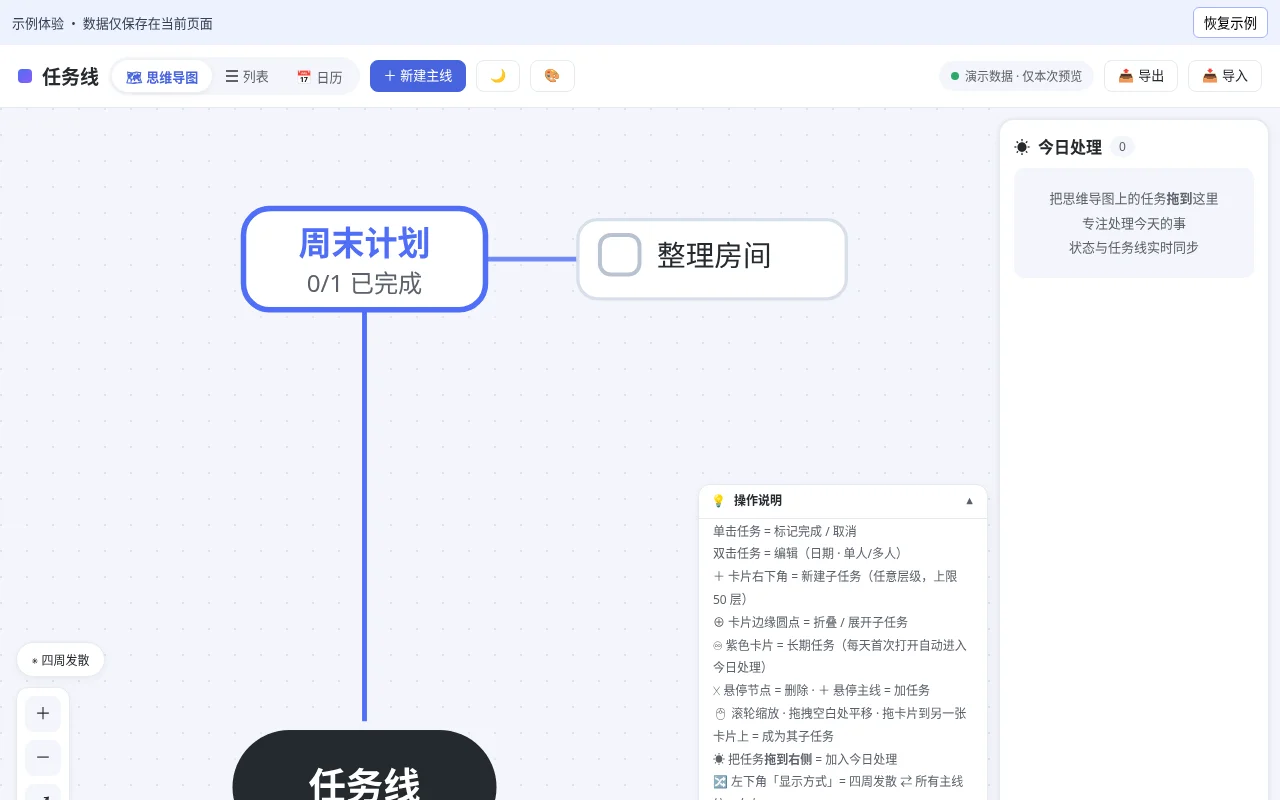
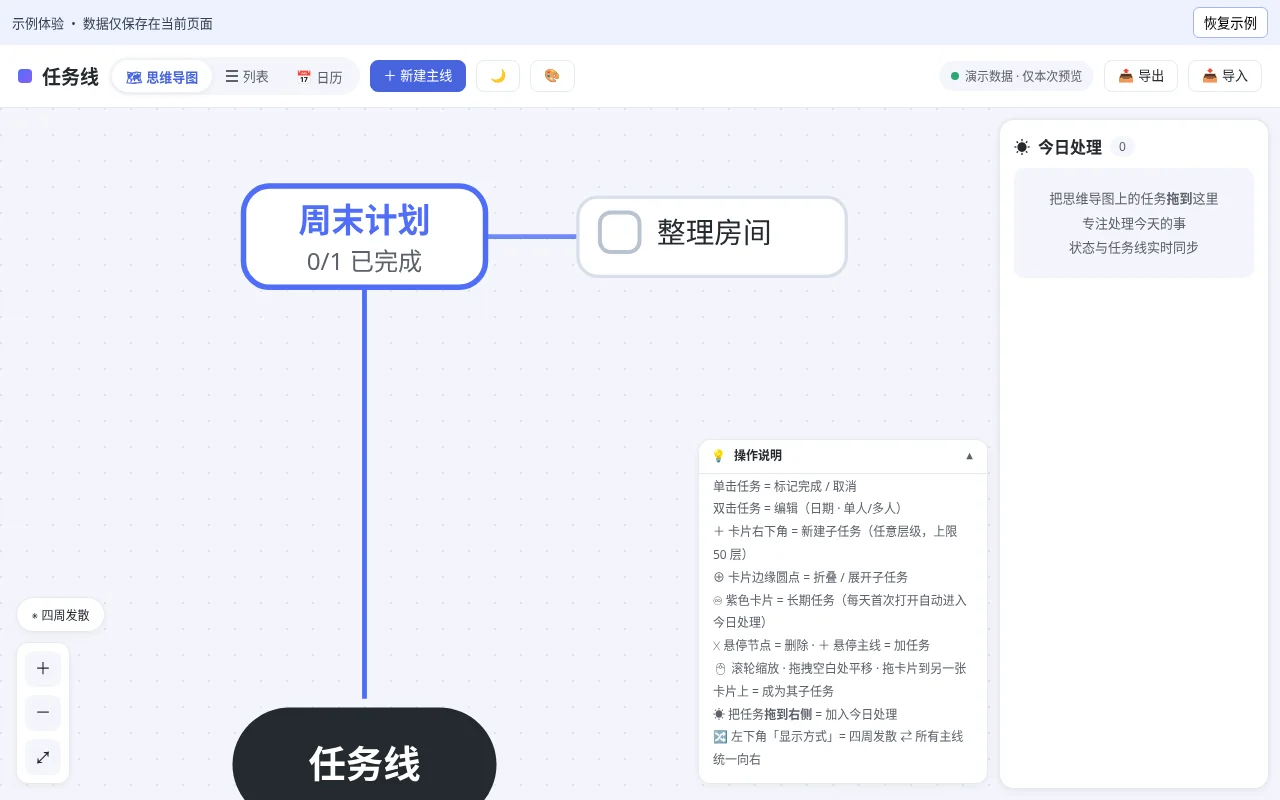
Add task planning template

diff --git a/123195a9aac18e698bc43458/showcase/preview.html b/123195a9aac18e698bc43458/showcase/preview.html
@@ -1069,7 +1069,7 @@
 
 
 #btnAuth{display:none!important}
-#previewBar{display:flex;align-items:center;justify-content:space-between;gap:8px;padding:7px 12px;background:#eef2ff;color:#334155;font:13px sans-serif}#previewReset{border:1px solid #a5b4fc;border-radius:6px;background:white;padding:5px 10px;cursor:pointer}
+body{display:flex;flex-direction:column}#app{flex:1;min-height:0}.app{height:100%}#previewBar{flex:none;display:flex;align-items:center;justify-content:space-between;gap:8px;padding:7px 12px;background:#eef2ff;color:#334155;font:13px sans-serif}#previewReset{border:1px solid #a5b4fc;border-radius:6px;background:white;padding:5px 10px;cursor:pointer}
 </style></head><body><div id="previewBar"><span>示例体验 · 数据仅保存在当前页面</span><button id="previewReset" type="button">恢复示例</button></div><div id="app"></div><script>const previewStorage={data:{},getItem(k){return this.data[k]||null},setItem(k,v){this.data[k]=String(v)},removeItem(k){delete this.data[k]}};
 document.querySelector('#app').innerHTML = "\n<div class=\"app\">\n\n  <header>\n    <!-- 手机上的主线抽屉开关：桌面隐藏（侧栏本来就常驻） -->\n    <button class=\"tool\" id=\"btnDrawer\" title=\"主线列表\" aria-label=\"打开主线列表\" aria-expanded=\"false\">☰</button>\n    <div class=\"logo\"><span class=\"dot\"></span>任务线</div>\n    <div class=\"view-switch\">\n      <button id=\"btnMapView\" class=\"on\">🗺 思维导图</button>\n      <button id=\"btnListView\">☰ 列表</button>\n      <button id=\"btnCalView\">📅 日历</button>\n    </div>\n    <button class=\"tool primary\" id=\"btnAddLineTop\">＋ 新建主线</button>\n    <button class=\"tool\" id=\"btnAuth\">☁ 登录同步</button>\n    <button class=\"tool\" id=\"btnTheme\" title=\"切换深色 / 浅色模式\">🌙</button>\n    <button class=\"tool\" id=\"btnScheme\" title=\"选择配色方案\" aria-haspopup=\"true\" aria-expanded=\"false\">🎨</button>\n    <div class=\"sync-badge\">\n      <span class=\"led\" id=\"syncLed\"></span><span id=\"syncText\">演示数据 · 仅本次预览</span>\n    </div>\n    <!-- 配色选择面板 -->\n    <div class=\"scheme-pop\" id=\"schemePop\" hidden>\n      <div class=\"scheme-pop-head\">配色方案</div>\n      <div class=\"scheme-list\" id=\"schemeList\"></div>\n      <div class=\"scheme-pop-foot\">配色与深浅模式可自由组合，共 10 种效果</div>\n    </div>\n    <button class=\"tool\" id=\"btnExport\">📤 导出</button>\n    <button class=\"tool\" id=\"btnImport\">📥 导入</button>\n    <!-- 手机上的「⋯ 更多」：把导出/导入收进来，顶栏少一行 -->\n    <button class=\"tool\" id=\"btnMore\" title=\"更多\" aria-haspopup=\"true\" aria-expanded=\"false\">⋯</button>\n    <div class=\"tool-more-pop\" id=\"morePop\" hidden>\n      <button id=\"btnMoreTheme\"><i>🌙</i>深色 / 浅色</button>\n      <button id=\"btnMoreScheme\"><i>🎨</i>配色方案</button>\n      <button id=\"btnMoreExport\"><i>📤</i>导出数据</button>\n      <button id=\"btnMoreImport\"><i>📥</i>导入数据</button>\n    </div>\n  </header>\n  <!-- 手机侧栏抽屉的遮罩：点空白处收起 -->\n  <div id=\"drawerMask\"></div>\n\n  <!-- ============ 思维导图视图（默认） ============ -->\n  <div id=\"mapView\">\n    <svg id=\"mapSvg\">\n      <g id=\"world\"></g>\n    </svg>\n    <!-- 今日处理：固定右侧面板（拖动任务进来，状态与任务线同步） -->\n    <div id=\"todayPanel\">\n      <div class=\"tp-head\"><span>☀</span><span class=\"tp-label\">今日处理</span> <span class=\"tp-count\" id=\"tpCount\">0</span></div>\n      <div class=\"tp-hint\" id=\"tpHint\">把思维导图上的任务<b>拖到</b>这里<br>专注处理今天的事<br>状态与任务线实时同步</div>\n      <div class=\"tp-list\" id=\"tpList\"></div>\n      <button class=\"tp-clear\" id=\"tpClear\" style=\"display:none\">🧹 清除已完成</button>\n    </div>\n    <div class=\"map-tools\">\n      <button id=\"zoomIn\" title=\"放大\">＋</button>\n      <button id=\"zoomOut\" title=\"缩小\">－</button>\n      <button id=\"zoomFit\" title=\"适应屏幕\">⤢</button>\n    </div>\n    <button id=\"btnMapLayout\" class=\"map-layout-btn\" title=\"切换思维导图的显示方式\">✳ 四周发散</button>\n    <div class=\"map-legend\" id=\"mapLegend\">\n      <button class=\"map-legend-head\" id=\"mapLegendHead\" aria-expanded=\"false\" title=\"展开 / 收起操作说明\">\n        <span>💡</span><span class=\"lg-title\">操作说明</span><span class=\"lg-arrow\">▼</span>\n      </button>\n      <div class=\"map-legend-body\">\n        单击任务 = 标记完成 / 取消<br>\n        双击任务 = 编辑（日期 · 单人/多人）<br>\n        ＋ 卡片右下角 = 新建子任务（任意层级，上限 50 层）<br>\n        ⊕ 卡片边缘圆点 = 折叠 / 展开子任务<br>\n        ♾ 紫色卡片 = 长期任务（每天首次打开自动进入今日处理）<br>\n        ✕ 悬停节点 = 删除 · ＋ 悬停主线 = 加任务<br>\n        🖱 滚轮缩放 · 拖拽空白处平移 · 拖卡片到另一张卡片上 = 成为其子任务<br>\n        ☀ 把任务<b>拖到右侧</b> = 加入今日处理<br>\n        🔀 左下角「显示方式」= 四周发散 ⇄ 所有主线统一向右\n      </div>\n    </div>\n    <div class=\"map-empty\" id=\"mapEmpty\">\n      <div style=\"font-size:40px\">🗺</div>\n      <div>点击右上角「＋ 新建主线」开始你的任务地图</div>\n    </div>\n  </div>\n\n  <!-- ============ 列表视图（保留） ============ -->\n  <div id=\"listView\">\n    <div class=\"layout\">\n      <aside id=\"sidebar\">\n        <h2>主线任务 <span class=\"count\" id=\"lineCount\"></span></h2>\n        <div id=\"lineList\"></div>\n        <div class=\"add-line\">\n          <input id=\"newLineName\" placeholder=\"新主线名称，回车添加\" maxlength=\"30\">\n          <button class=\"btn\" id=\"btnAddLine\">＋ 添加</button>\n        </div>\n      </aside>\n      <main>\n        <div class=\"main-head\">\n          <h1 id=\"currentLineName\">—</h1>\n          <span class=\"stat\" id=\"stat\"></span>\n          <div class=\"filters\">\n            <button data-f=\"all\" class=\"on\">全部</button>\n            <button data-f=\"todo\">未完成</button>\n            <button data-f=\"done\">已完成</button>\n          </div>\n        </div>\n        <div class=\"tree-bar\">\n          <button class=\"tool small\" id=\"btnExpandAll\" title=\"展开当前主线全部层级\">⊞ 全部展开</button>\n          <button class=\"tool small\" id=\"btnCollapseAll\" title=\"折叠当前主线全部层级\">⊟ 全部折叠</button>\n          <span class=\"tree-tip\">最多可嵌套 <b id=\"maxDepthTip\">50</b> 层 · 拖动任务可调整层级与顺序</span>\n        </div>\n        <div class=\"task-input\">\n          <button class=\"btn big-add\" id=\"btnAddTask\">＋ 发布新任务（可设截止日期、单人 / 多人）</button>\n        </div>\n        <!-- 面包屑：深层嵌套时清晰展示当前路径 -->\n        <div class=\"crumb\" id=\"crumb\"></div>\n        <!-- 任务树（长列表按可视区域渲染，深层嵌套也不卡） -->\n        <div class=\"task-scroll\" id=\"taskScroll\"><div class=\"task-list\" id=\"taskList\"></div></div>\n        <div class=\"empty\" id=\"emptyTip\" style=\"display:none\">\n          这条主线下还没有任务<br>在上方输入框写下第一件事吧 ✍\n        </div>\n      </main>\n    </div>\n  </div>\n\n  <!-- ============ 日历视图：按截止日期查看任务 ============ -->\n  <div id=\"calView\">\n    <div class=\"cal-wrap\">\n      <div class=\"cal-head\">\n        <button class=\"cal-nav\" id=\"calPrev\" title=\"上一月\">‹</button>\n        <div class=\"cal-title\" id=\"calTitle\">—</div>\n        <button class=\"cal-nav\" id=\"calNext\" title=\"下一月\">›</button>\n        <button class=\"cal-today\" id=\"calToday\">回到今天</button>\n        <label class=\"cal-opt\">\n          <input type=\"checkbox\" id=\"calShowDone\"> 显示已完成\n        </label>\n        <span class=\"cal-hint\">单击任务 = 标记完成 · 双击 = 编辑</span>\n      </div>\n      <div class=\"cal-week\">\n        <span>一</span><span>二</span><span>三</span><span>四</span><span>五</span>\n        <span class=\"we\">六</span><span class=\"we\">日</span>\n      </div>\n      <div class=\"cal-grid\" id=\"calGrid\"></div>\n      <div class=\"cal-side\">\n        <div class=\"cal-side-head\">\n          <span id=\"calSideTitle\">未安排日期</span>\n          <span class=\"count\" id=\"calNoDueCount\"></span>\n        </div>\n        <div class=\"cal-side-list\" id=\"calNoDueList\"></div>\n        <div class=\"cal-side-foot\">\n          ♾ 长期任务不设截止日期，不会出现在日历上，但每天首次打开会自动进入「今日处理」\n        </div>\n      </div>\n    </div>\n    <div class=\"empty\" id=\"calEmpty\" style=\"display:none\">\n      这个月还没有带截止日期的任务<br>给任务设置「📅 截止日期」后就会出现在这里\n    </div>\n  </div>\n</div>\n\n<div class=\"toast\" id=\"toast\"></div>\n\n<!-- 通用输入弹窗（新增/编辑） -->\n<div class=\"mask\" id=\"inputMask\">\n  <div class=\"dialog\">\n    <h3 id=\"inputTitle\">输入</h3>\n    <p id=\"inputDesc\"></p>\n    <input type=\"text\" id=\"inputField\" maxlength=\"100\">\n    <div class=\"row\">\n      <button class=\"btn ghost\" id=\"btnInputCancel\">取消</button>\n      <button class=\"btn\" id=\"btnInputOk\">确定</button>\n    </div>\n  </div>\n</div>\n\n<!-- 通用确认弹窗（删除等危险操作；替代原生 confirm，避免在部分网页容器中被拦截失效） -->\n<div class=\"mask\" id=\"confirmMask\">\n  <div class=\"dialog\">\n    <h3 id=\"confirmTitle\">确认操作</h3>\n    <p id=\"confirmDesc\"></p>\n    <div class=\"row\">\n      <button class=\"btn ghost\" id=\"btnConfirmCancel\">取消</button>\n      <button class=\"btn danger\" id=\"btnConfirmOk\">确定</button>\n    </div>\n  </div>\n</div>\n\n<!-- 任务表单弹窗（新建 / 编辑：内容 + 截止日期 + 单人/多人） -->\n<div class=\"mask\" id=\"taskMask\">\n  <div class=\"dialog\">\n    <h3 id=\"taskDlgTitle\">发布新任务</h3>\n    <p id=\"taskDlgDesc\"></p>\n    <input type=\"text\" id=\"taskDlgName\" maxlength=\"100\" placeholder=\"要做什么？\">\n    <label class=\"dlg-label\">📅 截止日期（可选）</label>\n    <div class=\"due-row\">\n      <input type=\"date\" id=\"taskDlgDue\">\n      <button class=\"btn ghost\" id=\"taskDlgDueClear\" type=\"button\">清除</button>\n    </div>\n    <div class=\"scope-switch\" id=\"longSwitch\" style=\"margin-top:8px\">\n      <button type=\"button\" data-l=\"0\" class=\"on\">⏱ 有截止日期</button>\n      <button type=\"button\" data-l=\"1\">♾ 长期任务</button>\n    </div>\n    <div class=\"dlg-tip\" id=\"longTip\" style=\"display:none\">\n      ♾ <b>长期任务</b>：不设截止日期，每天首次打开应用时自动进入「今日处理」；\n      当天手动移出后不会再自动加回，第二天重新出现。\n    </div>\n    <label class=\"dlg-label\">👤 参与方式</label>\n    <div class=\"scope-switch\" id=\"scopeSwitch\">\n      <button type=\"button\" data-s=\"solo\" class=\"on\">👤 单人任务</button>\n      <button type=\"button\" data-s=\"multi\">👥 多人协作</button>\n    </div>\n    <input type=\"text\" id=\"taskDlgAssignees\" maxlength=\"60\"\n      placeholder=\"参与人，如：小明、小红（可选）\" style=\"display:none\">\n    <div class=\"row\" style=\"margin-top:16px\">\n      <button class=\"btn ghost\" id=\"taskDlgCancel\">取消</button>\n      <button class=\"btn\" id=\"taskDlgOk\">保存任务</button>\n    </div>\n  </div>\n</div>\n\n<!-- 导出 / 导入 弹窗 -->\n<div class=\"mask\" id=\"dlgMask\">\n  <div class=\"dialog\">\n    <h3 id=\"dlgTitle\">导出数据</h3>\n    <p id=\"dlgDesc\">把下面方框中的内容复制保存，即可迁移到其他设备。</p>\n    <textarea id=\"dlgArea\" spellcheck=\"false\"></textarea>\n    <div class=\"row\">\n      <button class=\"btn ghost\" id=\"btnDlgClose\">关闭</button>\n      <button class=\"btn\" id=\"btnDlgCopy\">复制到剪贴板</button>\n      <button class=\"btn green\" id=\"btnDlgApply\" style=\"display:none\">导入</button>\n    </div>\n  </div>\n</div>\n\n";
 /* =====================================================================
